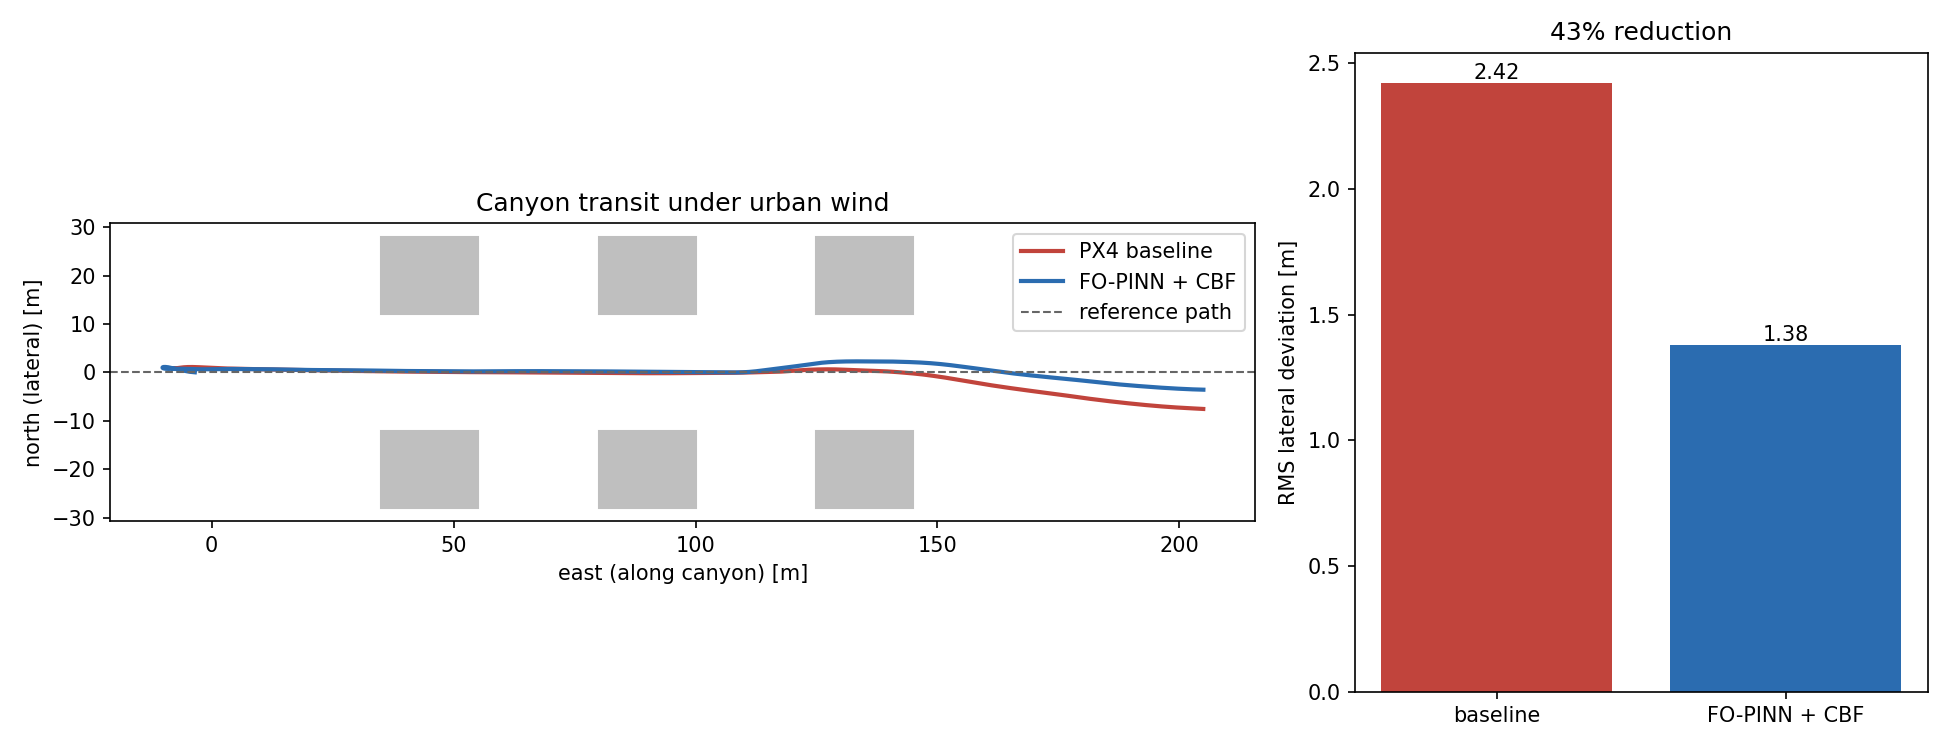
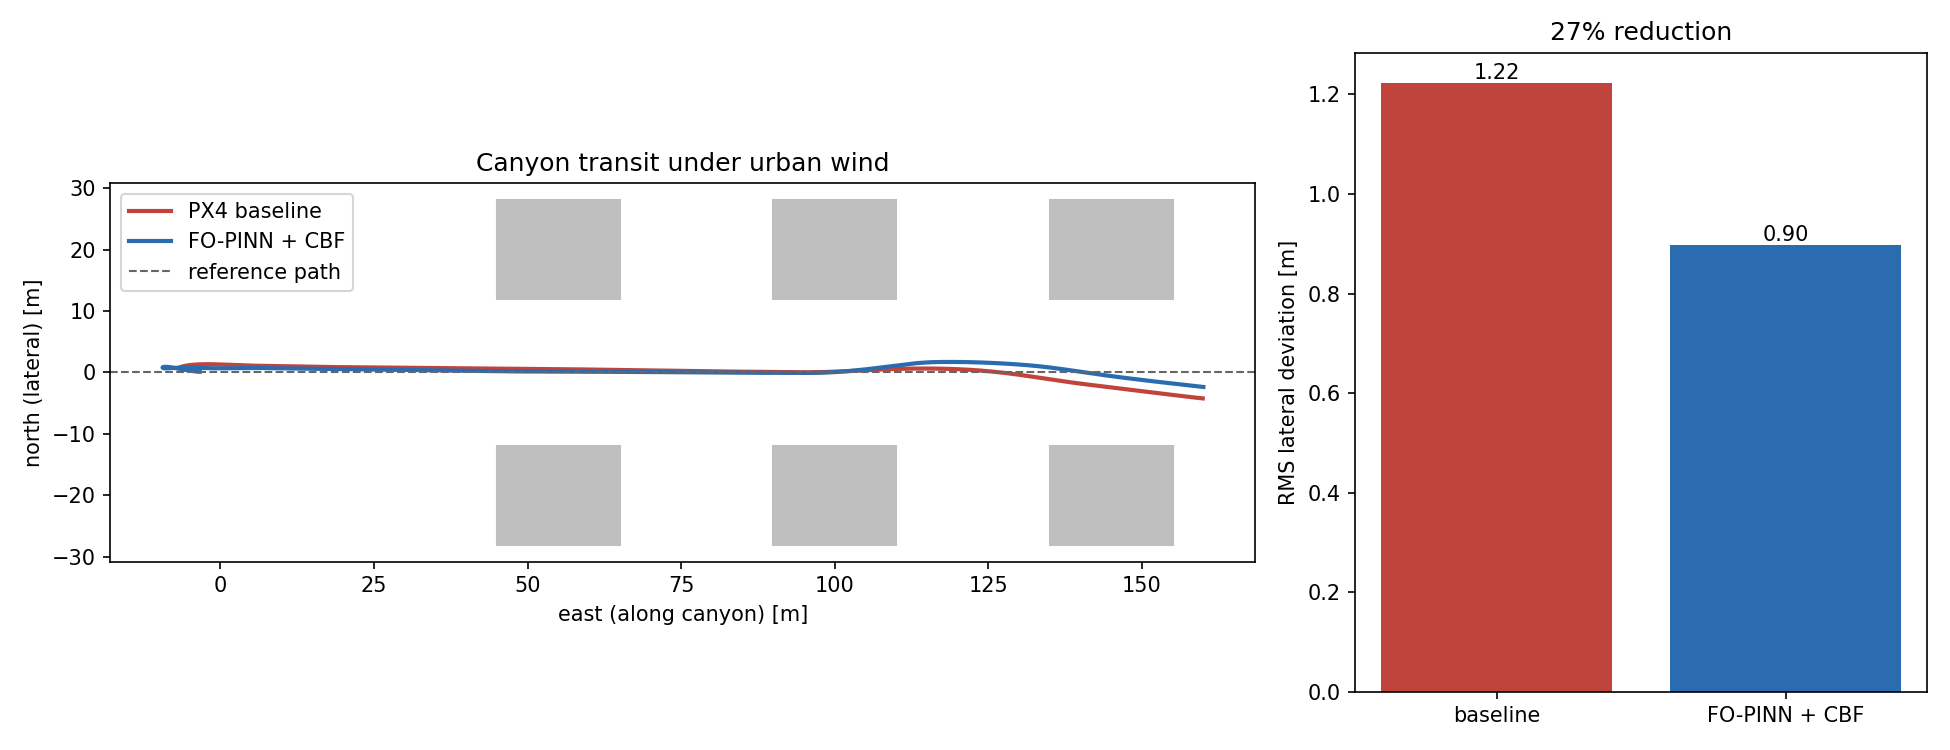
feat: land as soon as the vehicle clears the last tower row
Rechecked the canyon geometry: towers are correctly centred on the
ground plane (both at the origin), confirmed via canyon_geometry's
BUILDINGS bounding box.

controller_node now requests AUTO_LAND as soon as the vehicle clears
tower_2_n/tower_2_s (the last row), not the mission's own exit waypoint
-- CANYON_EXIT sits 45m further out for stable transit dynamics, not as
a landing cue, and waiting that much longer just means more uncompensated
wind drift before the vehicle is actually down. LAND_TRIGGER_LOCAL_M is
computed directly from canyon_geometry.BUILDINGS so it can't drift out
of sync with the actual tower positions.

That surfaced a real problem: AUTO_LAND is a slow (tens of seconds),
largely wind-uncompensated descent, and a live baseline run drifted from
the new (earlier) trigger point at world-east=55 all the way to
world-east=180 by touchdown under the canyon's ~12-14 m/s crosswind --
past the previous 300x150 ground plane's own edge at 150. Stretched the
ground plane to 600x200, still centred at the origin (so the towers stay
in the middle of it), comfortably covering the observed worst case with
margin.

Also fixed plot_results._flying(): its transit-window cutoff was still
based on the old, further-out mission-exit distance, so after moving the
land trigger earlier, tens of metres of post-landing-command AUTO_LAND
drift leaked into the RMS comparison (one run briefly showed a
nonsensical -158% "reduction" before this fix, -8% after -- back in the
[…]

diff --git a/src/aerocanyon/aerocanyon/controller_node.py b/src/aerocanyon/aerocanyon/controller_node.py
@@ -16,6 +16,7 @@ from px4_msgs.msg import (OffboardControlMode, TrajectorySetpoint,
 from rclpy.node import Node
 from rclpy.qos import qos_profile_sensor_data
 
+from . import canyon_geometry as cg
 from . import constants as C
 from .cbf_filter import CBFFilter
 from .constants import MASS_KG
@@ -37,9 +38,16 @@ ENGAGE_RETRY_TICKS = 50  # retry the arm+offboard request once a second until it
 # verified-stable flight in this project's history has actually flown.
 ENABLE_VTOL_TRANSITION = False
 
-# How far past the canyon exit (measured position, not the open-loop
-# mission schedule) the vehicle must actually be before it lands.
+# How far past the canyon exit the vehicle must actually be before it
+# lands, measured from the far edge of the LAST tower row (tower_2_n/
+# tower_2_s), not from the mission's own exit waypoint (CANYON_EXIT is
+# set generously past the towers -- 45m of margin -- for stable transit
+# dynamics, not as a landing cue). local NED east = distance from
+# CANYON_ENTRY (== the spawn point, verified live), so this is the last
+# tower row's world-ENU edge shifted into that same local frame.
 LAND_CLEARANCE_M = 2.0
+_LAST_TOWER_EDGE_ENU_X = max(b.cx + b.sx / 2.0 for b in cg.BUILDINGS if b.cx > 0)
+LAND_TRIGGER_LOCAL_M = _LAST_TOWER_EDGE_ENU_X - float(cg.CANYON_ENTRY[0]) + LAND_CLEARANCE_M
 
 # Earlier designs tried flying the vehicle all the way back to the spawn
 # point before landing via native RTL (VEHICLE_CMD_NAV_RETURN_TO_LAUNCH:
@@ -243,16 +251,17 @@ class ControllerNode(Node):
         # CANYON_ENTRY (run_trial.SPAWN_XYZ), PX4's local origin sits
         # there too (verified live), so self.pos[1] already reads as
         # "east distance travelled from the entry" directly, and
-        # mission.distance is exactly that distance to the exit. Gated on
-        # measured position, not the open-loop mission schedule's `done`
-        # flag, so landing only fires once the vehicle has actually
-        # cleared the canyon -- wind or CBF deviation could otherwise have
-        # it trigger while still between the buildings.
-        if engaged and self.pos[1] >= self.mission.distance + LAND_CLEARANCE_M:
+        # LAND_TRIGGER_LOCAL_M is that same distance to the last tower
+        # row's far edge plus LAND_CLEARANCE_M. Gated on measured
+        # position, not the open-loop mission schedule's `done` flag, so
+        # landing only fires once the vehicle has actually cleared the
+        # towers -- wind or CBF deviation could otherwise have it trigger
+        # while still between the buildings.
+        if engaged and self.pos[1] >= LAND_TRIGGER_LOCAL_M:
             self._send_command(VehicleCommand.VEHICLE_CMD_NAV_LAND)
             self.land_requested = True
             self.get_logger().info(
-                f'cleared canyon by {LAND_CLEARANCE_M}m -- requested landing')
+                f'cleared the tower row by {LAND_CLEARANCE_M}m -- requested landing')
             self.tick += 1
             return
 

diff --git a/src/aerocanyon/test/test_controller_node.py b/src/aerocanyon/test/test_controller_node.py
@@ -241,8 +241,8 @@ def _run_land_ticks(n, pos, mode='baseline'):
         rclpy.shutdown()
 
 
-def test_lands_in_place_once_position_clears_the_canyon_exit_by_the_margin():
-    # Both modes land where they are once clear of the canyon -- see
+def test_lands_in_place_once_position_clears_the_last_tower_row_by_the_margin():
+    # Both modes land where they are once clear of the towers -- see
     # LAND_CLEARANCE_M's comment for why flying anywhere first (native
     # RTL, or an earlier custom fly-home-and-land design) is no longer
     # needed now that each leg gets its own fresh Gazebo/PX4 process --
@@ -251,25 +251,28 @@ def test_lands_in_place_once_position_clears_the_canyon_exit_by_the_margin():
     # heading correctly, but its own disarm logic was verified live to be
     # unsafe (a rejected disarm-while-airborne request could leave the
     # vehicle with no control input at all, mid-air).
-    from aerocanyon.mission import Mission
-    distance = Mission().distance
+    #
+    # Triggered on clearing the LAST TOWER ROW's edge (LAND_TRIGGER_LOCAL_M),
+    # not the mission's own exit waypoint -- CANYON_EXIT sits 45m further
+    # out for stable transit dynamics, not as a landing cue, and landing
+    # that much later would mean more time drifting under wind before the
+    # vehicle is actually on the ground.
     for mode in ('baseline', 'treatment'):
         sent, setpoints, land_requested = _run_land_ticks(
-            2, pos=(0.0, distance + controller_node.LAND_CLEARANCE_M, 0.0), mode=mode)
+            2, pos=(0.0, controller_node.LAND_TRIGGER_LOCAL_M, 0.0), mode=mode)
         land_cmds = [s for s in sent if s[0] == VehicleCommand.VEHICLE_CMD_NAV_LAND]
-        assert land_requested, f'{mode}: must request landing on clearing the canyon'
+        assert land_requested, f'{mode}: must request landing on clearing the tower row'
         assert len(land_cmds) == 1, f'{mode}: must request landing exactly once'
         assert setpoints == [], (
             f'{mode}: must stop publishing its own setpoint stream once handed off '
             'to AUTO_LAND -- continuing would fight PX4 for control authority')
 
 
-def test_does_not_land_before_clearing_the_canyon_by_the_margin():
-    from aerocanyon.mission import Mission
-    distance = Mission().distance
+def test_does_not_land_before_clearing_the_last_tower_row_by_the_margin():
     # 1m short of the required clearance margin.
-    _, _, land_requested = _run_land_ticks(5, pos=(0.0, distance + 1.0, 0.0))
-    assert not land_requested, 'must not land until actually 2m clear of the canyon exit'
+    _, _, land_requested = _run_land_ticks(
+        5, pos=(0.0, controller_node.LAND_TRIGGER_LOCAL_M - 1.0, 0.0))
+    assert not land_requested, 'must not land until actually 2m clear of the last tower row'
 
 
 if __name__ == '__main__':

diff --git a/src/aerocanyon/aerocanyon/plot_results.py b/src/aerocanyon/aerocanyon/plot_results.py
@@ -13,18 +13,21 @@ from . import canyon_geometry as cg  # noqa: E402
 
 def _flying(df):
     """Rows where the vehicle is actually airborne, tracking, and still
-    within the canyon transit itself -- not the return leg.
+    within the canyon transit itself -- not the landing.
 
-    The return leg (baseline's native RTL, which doesn't reliably
-    navigate home in this SITL config and can drift for hundreds of
-    metres; treatment's own wind-compensated fly-home) isn't part of the
-    baseline/treatment comparison being measured -- see controller_node's
-    RETURN_CLEARANCE_M and History.md. Cut the data off a little past the
-    canyon exit, in local NED east (== distance travelled from
-    CANYON_ENTRY, see building_plot_rect below), so a few hundred metres of
-    aimless post-transit wandering can't swamp the actual ~200 m transit
-    in these figures."""
-    exit_east = float(cg.CANYON_EXIT[0]) - float(cg.CANYON_ENTRY[0])
+    controller_node requests AUTO_LAND as soon as the vehicle clears the
+    LAST TOWER ROW (not the mission's own, much-further-out exit
+    waypoint), and that hands-off, largely wind-uncompensated descent
+    isn't part of the baseline/treatment comparison being measured -- see
+    controller_node.LAND_TRIGGER_LOCAL_M and History.md. Cut the data off
+    a little past the last tower row, in local NED east (== distance
+    travelled from CANYON_ENTRY, see building_plot_rect below), matching
+    that same trigger point -- using the old, further-out mission-exit
+    cutoff here let tens of metres of post-landing-command AUTO_LAND
+    drift back into the RMS figure, since landing now happens well before
+    the vehicle ever reaches that point."""
+    last_tower_edge = max(b.cx + b.sx / 2.0 for b in cg.BUILDINGS if b.cx > 0)
+    exit_east = last_tower_edge - float(cg.CANYON_ENTRY[0])
     transit_margin_m = 5.0
     return df[(df[['qw', 'qx', 'qy', 'qz']].abs().sum(axis=1) > 0.5)
               & (df.z < -2.0)
